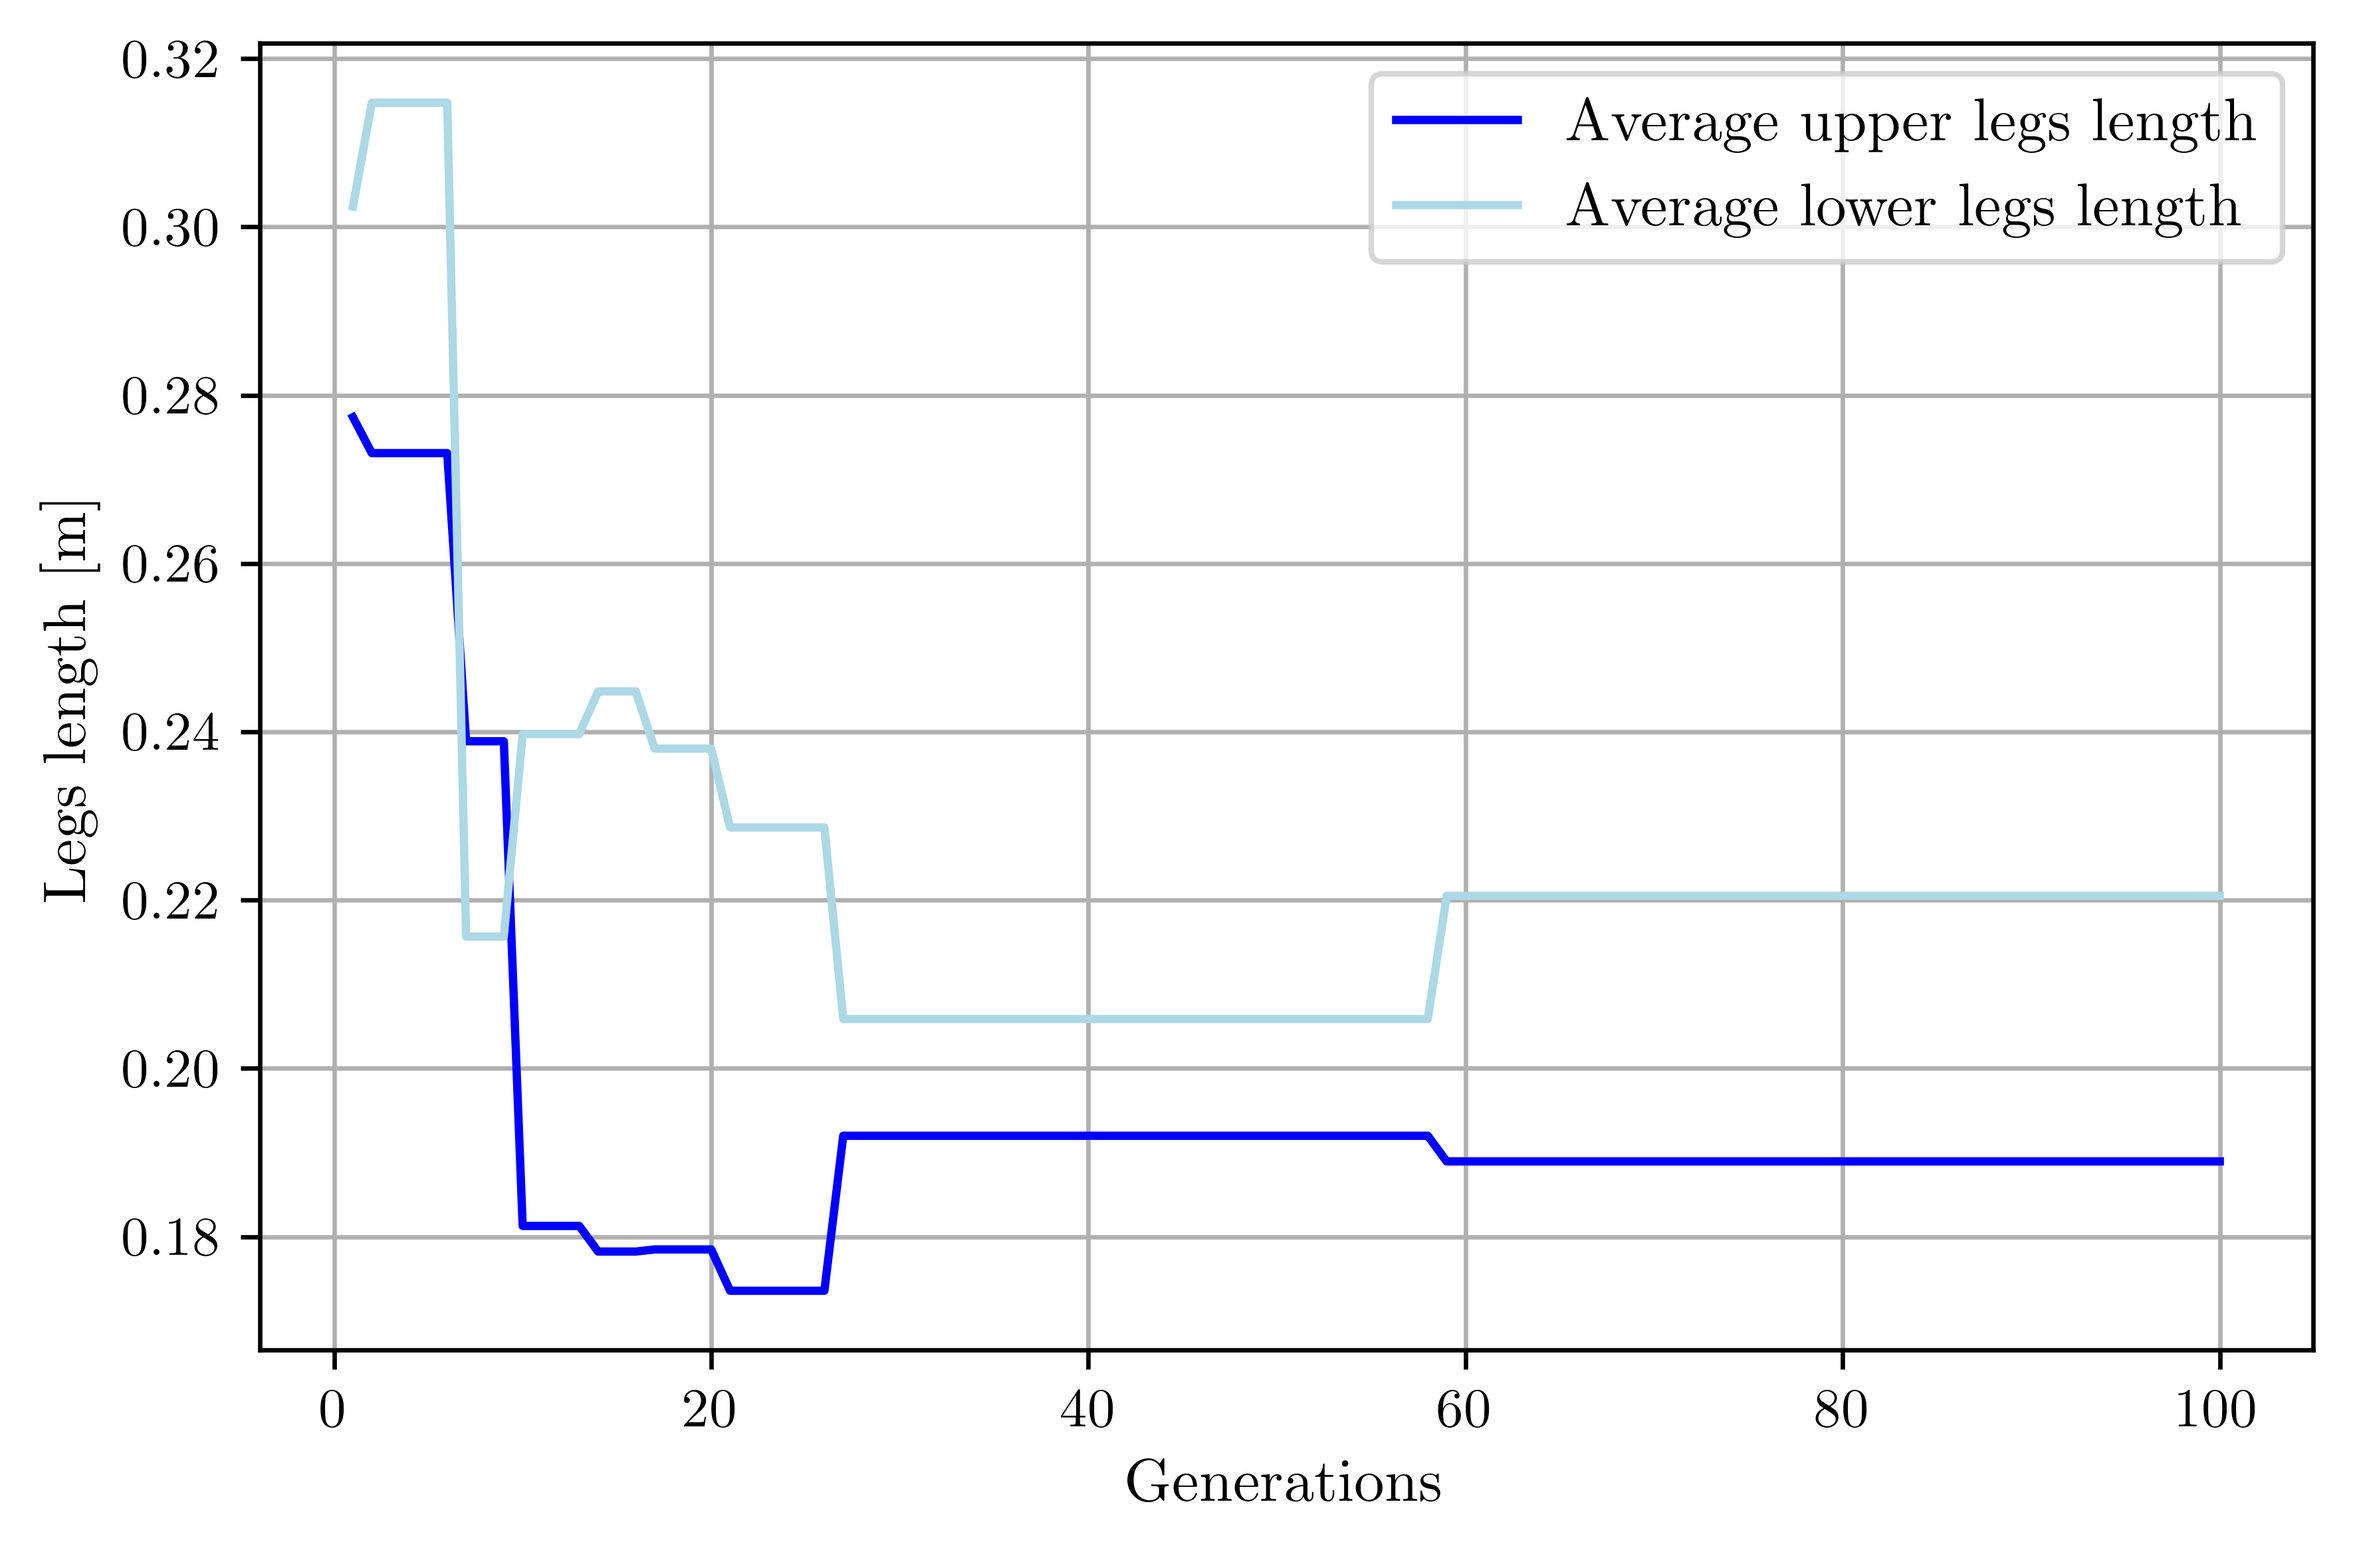
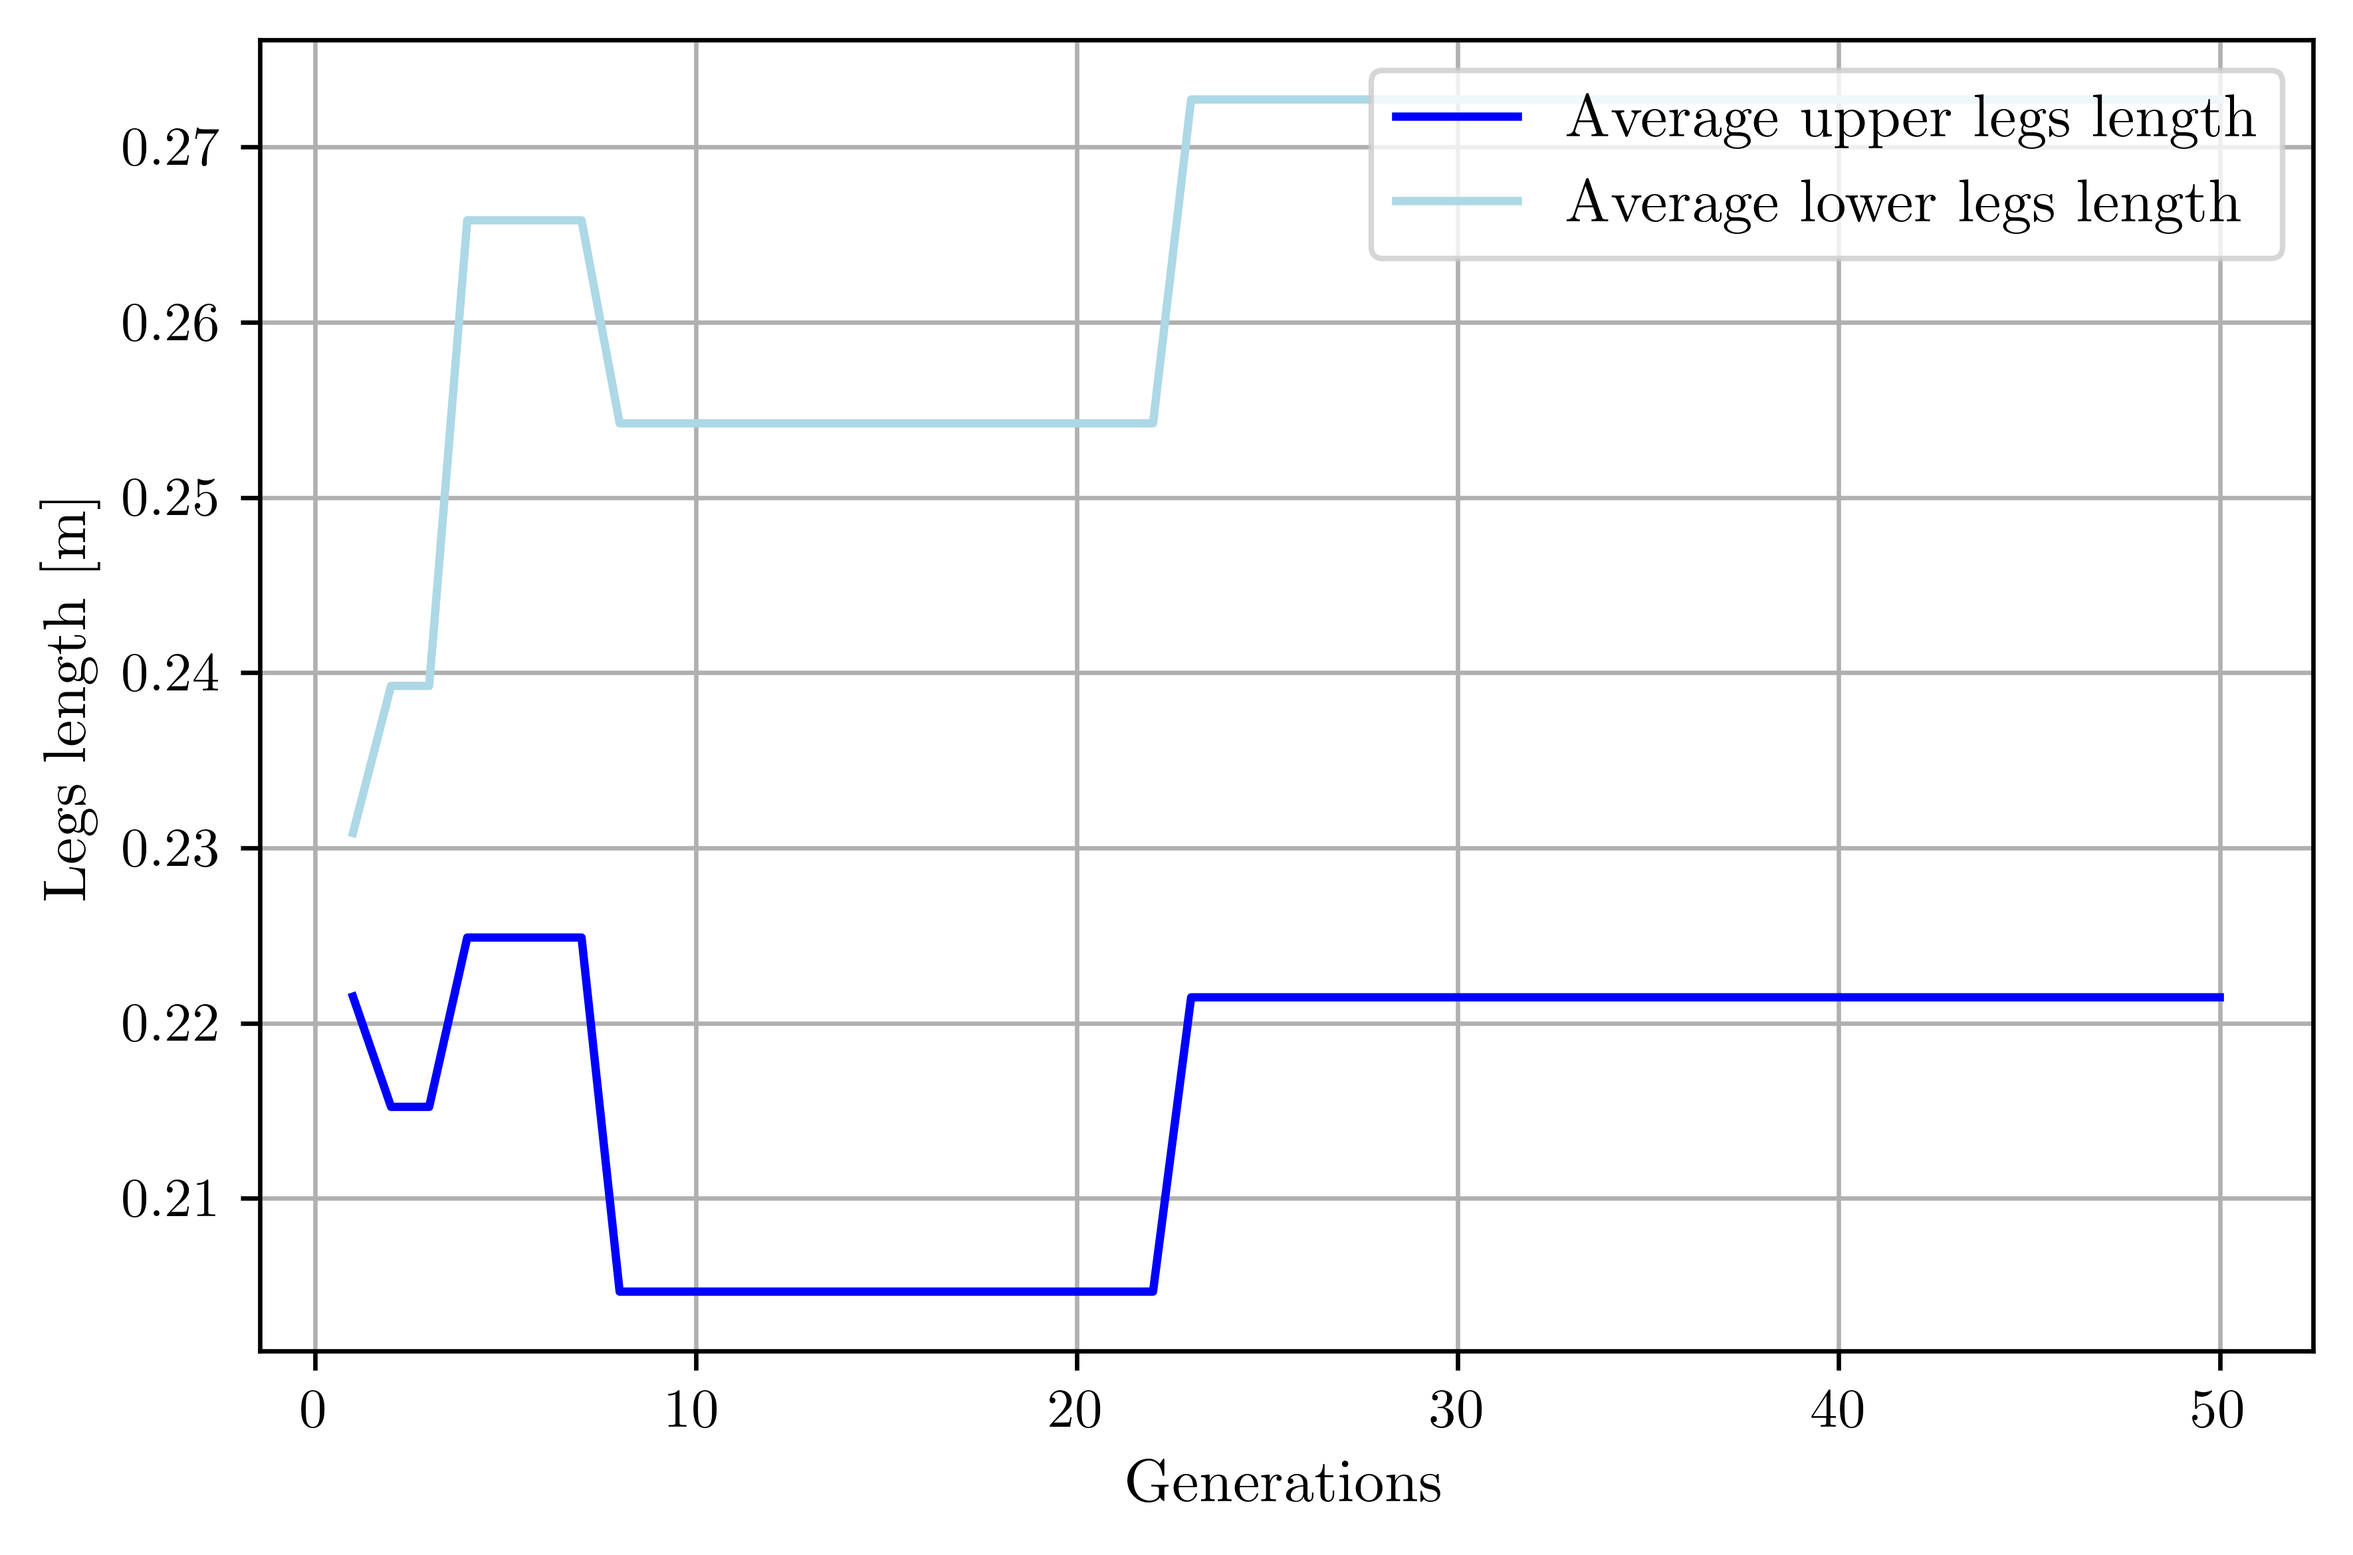
ctrl_cost and not cfrc_cost !!

diff --git a/rocky_experiment.py b/rocky_experiment.py
@@ -153,9 +153,8 @@ class AntWorld(World):
             # Store rewards for active environments only
             rewards_full[step, done_mask == False] = rewards[done_mask == False]
 
-            # print(infos)
-
-            multi_obj_reward = np.array([infos['reward_forward'], -infos['cfrc_cost']]).T             # multi-objective reward
+            # print(infos)            
+            multi_obj_reward = np.array([infos['reward_forward'], -infos['ctrl_cost']]).T              # multi-objective reward
             multi_obj_rewards_full[step, done_mask == False] = multi_obj_reward[done_mask == False]
 
             # Update the done mask based on the "done" and "truncated" flags

diff --git a/src/world/envs/AntCustomGym.py b/src/world/envs/AntCustomGym.py
@@ -199,7 +199,7 @@ class AntCustomEnv(MujocoEnv, utils.EzPickle):
 
         if (fall_down_detection(self.data.body(self._main_body).xquat)):     
             # print("Ant fell on its back")  
-            ctrl_cost += 300                     # FIXME
+            ctrl_cost += 150                     # FIXME
             terminated = True
 
         # Limit if there is a huge value in the observation
